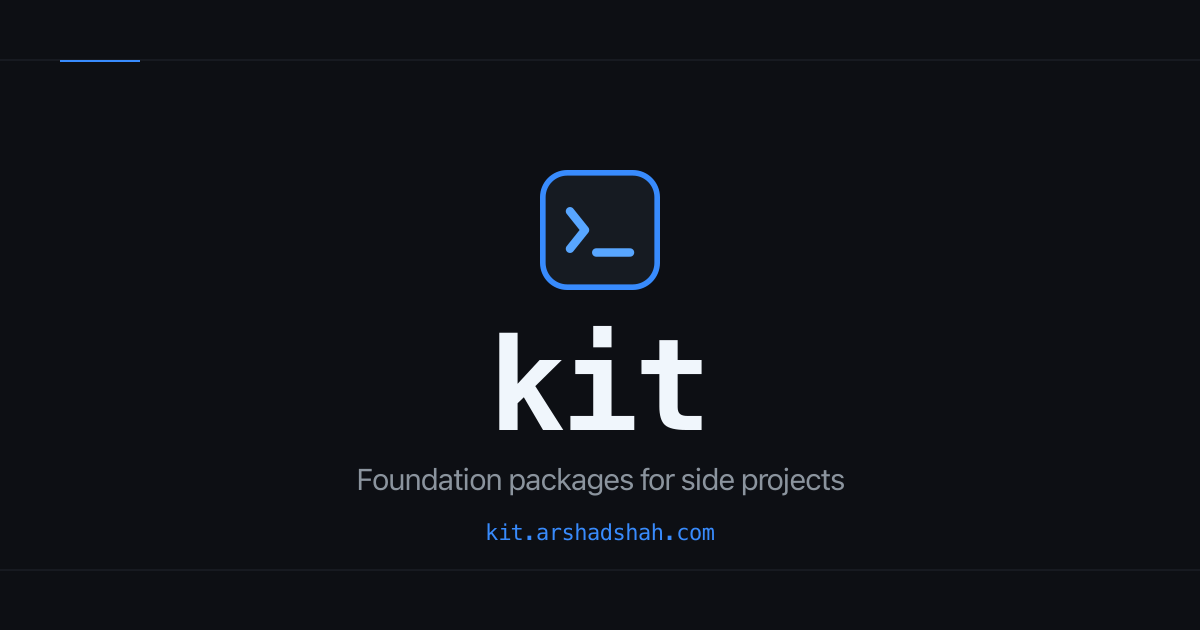
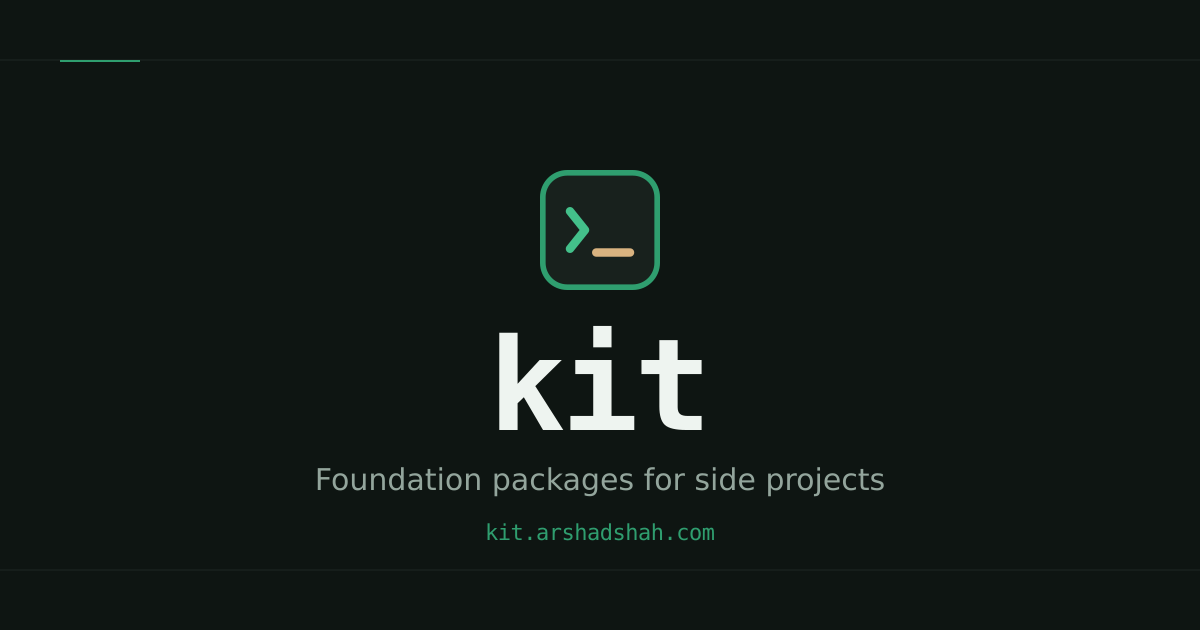
Rebrand kit docs to "Forest slate" palette
Replace the GitHub-blue terminal aesthetic with a deep evergreen
primary on slate-greens plus a warm sand secondary. Grounded and
organic, deliberately steering clear of generic AI violet/cyan looks.

- terminal.css: recolor every Starlight + --kit-* token (both themes),
  add --kit-accent-2 (warm sand)
- logo (light/dark), favicon, apple-touch-icon, og-image SVGs recolored;
  chevron in forest green with a sand horizontal rule
- regenerate apple-touch-icon.png / og-image.png rasters
- generate-brand.mjs raster background -> evergreen-black (#0e1512)
- astro.config theme-color (dark) -> #0e1512
- README docs badge -> forest green

diff --git a/apps/docs/src/styles/terminal.css b/apps/docs/src/styles/terminal.css
@@ -1,5 +1,9 @@
 /*
- * kit docs - GitHub-Dark / GitHub-Light terminal aesthetic, dual-theme.
+ * kit docs - "Forest slate" terminal aesthetic, dual-theme.
+ *
+ * Palette: deep evergreen primary (--sl-color-accent) on slate-greens, with a
+ * warm sand secondary (--kit-accent-2). Grounded and organic - deliberately
+ * no neon, no gradient sheen, no AI violet/cyan.
  *
  * Tokens:
  *   --sl-color-*   Starlight built-ins (Starlight reads these; we override per theme)
@@ -19,86 +23,88 @@
 /* ---------- Dark theme ---------- */
 :root,
 :root[data-theme="dark"] {
-	--sl-color-bg: #0d0f14;
-	--sl-color-bg-nav: #0d0f14;
-	--sl-color-bg-sidebar: #0d0f14;
-	--sl-color-bg-inline-code: #161b22;
-	--sl-color-bg-accent: #161b22;
+	--sl-color-bg: #0e1512;
+	--sl-color-bg-nav: #0e1512;
+	--sl-color-bg-sidebar: #0e1512;
+	--sl-color-bg-inline-code: #18211d;
+	--sl-color-bg-accent: #18211d;
 
-	--sl-color-text: #c9d1d9;
-	--sl-color-text-accent: #388bfd;
-	--sl-color-text-invert: #0d0f14;
-	--sl-color-white: #f0f6fc;
-	--sl-color-gray-1: #f0f6fc;
-	--sl-color-gray-2: #c9d1d9;
-	--sl-color-gray-3: #8b949e;
-	--sl-color-gray-4: #6e7681;
-	--sl-color-gray-5: #484f58;
-	--sl-color-gray-6: #30363d;
-	--sl-color-gray-7: #21262d;
-	--sl-color-black: #0d0f14;
+	--sl-color-text: #d6e0da;
+	--sl-color-text-accent: #43c08a;
+	--sl-color-text-invert: #0e1512;
+	--sl-color-white: #eef4f0;
+	--sl-color-gray-1: #eef4f0;
+	--sl-color-gray-2: #d6e0da;
+	--sl-color-gray-3: #93a59c;
+	--sl-color-gray-4: #6d7f76;
+	--sl-color-gray-5: #4b5a53;
+	--sl-color-gray-6: #2c3833;
+	--sl-color-gray-7: #1d2823;
+	--sl-color-black: #0e1512;
 
-	--sl-color-accent-low: #0c2d6b;
-	--sl-color-accent: #388bfd;
-	--sl-color-accent-high: #58a6ff;
+	--sl-color-accent-low: #103a29;
+	--sl-color-accent: #2f9e6f;
+	--sl-color-accent-high: #43c08a;
 
-	--sl-color-hairline: #21262d;
-	--sl-color-hairline-light: #30363d;
-	--sl-color-hairline-shade: #161b22;
+	--sl-color-hairline: #1d2823;
+	--sl-color-hairline-light: #2c3833;
+	--sl-color-hairline-shade: #18211d;
 
-	--sl-color-asides-text-accent: #58a6ff;
-	--sl-color-blue: #58a6ff;
-	--sl-color-blue-low: #0c2d6b;
-	--sl-color-blue-high: #79c0ff;
+	--sl-color-asides-text-accent: #43c08a;
+	--sl-color-blue: #43c08a;
+	--sl-color-blue-low: #103a29;
+	--sl-color-blue-high: #6fd8a8;
 
-	--kit-code-block-bg: #0a0c10;
-	--kit-sidebar-active-text: #f0f6fc;
-	--kit-sidebar-active-bg: rgba(56, 139, 253, 0.12);
-	--kit-selection-bg: rgba(56, 139, 253, 0.3);
-	--kit-selection-text: #f0f6fc;
-	--kit-link-glow: rgba(56, 139, 253, 0.4);
+	--kit-accent-2: #d9b380;
+	--kit-code-block-bg: #0a0f0d;
+	--kit-sidebar-active-text: #eef4f0;
+	--kit-sidebar-active-bg: rgba(47, 158, 111, 0.14);
+	--kit-selection-bg: rgba(47, 158, 111, 0.3);
+	--kit-selection-text: #eef4f0;
+	--kit-link-glow: rgba(47, 158, 111, 0.4);
 }
 
-/* ---------- Light theme (GitHub Light lineage) ---------- */
+/* ---------- Light theme ---------- */
 :root[data-theme="light"] {
 	--sl-color-bg: #ffffff;
 	--sl-color-bg-nav: #ffffff;
 	--sl-color-bg-sidebar: #ffffff;
-	--sl-color-bg-inline-code: #f6f8fa;
-	--sl-color-bg-accent: #ddf4ff;
+	--sl-color-bg-inline-code: #f0f5f2;
+	--sl-color-bg-accent: #dcefe5;
 
-	--sl-color-text: #24292f;
-	--sl-color-text-accent: #0969da;
+	--sl-color-text: #1c2a24;
+	--sl-color-text-accent: #1a7a52;
 	--sl-color-text-invert: #ffffff;
-	--sl-color-white: #1f2328;
-	--sl-color-gray-1: #1f2328;
-	--sl-color-gray-2: #24292f;
-	--sl-color-gray-3: #57606a;
-	--sl-color-gray-4: #6e7781;
-	--sl-color-gray-5: #8c959f;
-	--sl-color-gray-6: #d0d7de;
-	--sl-color-gray-7: #eaeef2;
+	--sl-color-white: #14211b;
+	--sl-color-gray-1: #14211b;
+	--sl-color-gray-2: #1c2a24;
+	--sl-color-gray-3: #4f6258;
+	--sl-color-gray-4: #6d7f76;
+	--sl-color-gray-5: #94a59d;
+	--sl-color-gray-6: #cbd8d1;
+	--sl-color-gray-7: #e7efea;
 	--sl-color-black: #ffffff;
 
-	--sl-color-accent-low: #ddf4ff;
-	--sl-color-accent: #0969da;
-	--sl-color-accent-high: #0550ae;
+	--sl-color-accent-low: #dcefe5;
+	--sl-color-accent: #1a7a52;
+	--sl-color-accent-high: #115e3f;
 
-	--sl-color-hairline: #d0d7de;
-	--sl-color-hairline-light: #afb8c1;
-	--sl-color-hairline-shade: #eaeef2;
+	--sl-color-hairline: #cbd8d1;
+	--sl-color-hairline-light: #aebfb6;
+	--sl-color-hairline-shade: #e7efea;
 
-	--sl-color-asides-text-accent: #0550ae;
-	--sl-color-blue: #0969da;
-	--sl-color-blue-low: #ddf4ff;
-	--sl-color-blue-high: #0550ae;
+	--sl-color-asides-text-accent: #115e3f;
+	--sl-color-blue: #1a7a52;
+	--sl-color-blue-low: #dcefe5;
+	--sl-color-blue-high: #115e3f;
 
-	--kit-code-block-bg: #f6f8fa;
-	--kit-sidebar-active-text: #0550ae;
-	--kit-sidebar-active-bg: rgba(9, 105, 218, 0.1);
-	--kit-selection-bg: rgba(9, 105, 218, 0.2);
-	--kit-selection-text: #0550ae;
-	--kit-link-glow: rgba(9, 105, 218, 0.35);
+	--kit-accent-2: #b07d3a;
+	--kit-code-block-bg: #f0f5f2;
+	--kit-sidebar-active-text: #115e3f;
+	--kit-sidebar-active-bg: rgba(26, 122, 82, 0.1);
+	--kit-selection-bg: rgba(26, 122, 82, 0.2);
+	--kit-selection-text: #115e3f;
+	--kit-link-glow: rgba(26, 122, 82, 0.35);
 }
 
 /* ---------- Typography ---------- */

diff --git a/README.md b/README.md
@@ -3,7 +3,7 @@
 Foundation packages for side projects, each independently versioned and publishable to npm.
 
 [![CI](https://github.com/arshad-shah/kit/actions/workflows/ci.yml/badge.svg)](https://github.com/arshad-shah/kit/actions/workflows/ci.yml)
-[![Docs](https://img.shields.io/badge/docs-kit.arshadshah.com-blue)](https://kit.arshadshah.com)
+[![Docs](https://img.shields.io/badge/docs-kit.arshadshah.com-2f9e6f)](https://kit.arshadshah.com)
 
 ## Packages
 
